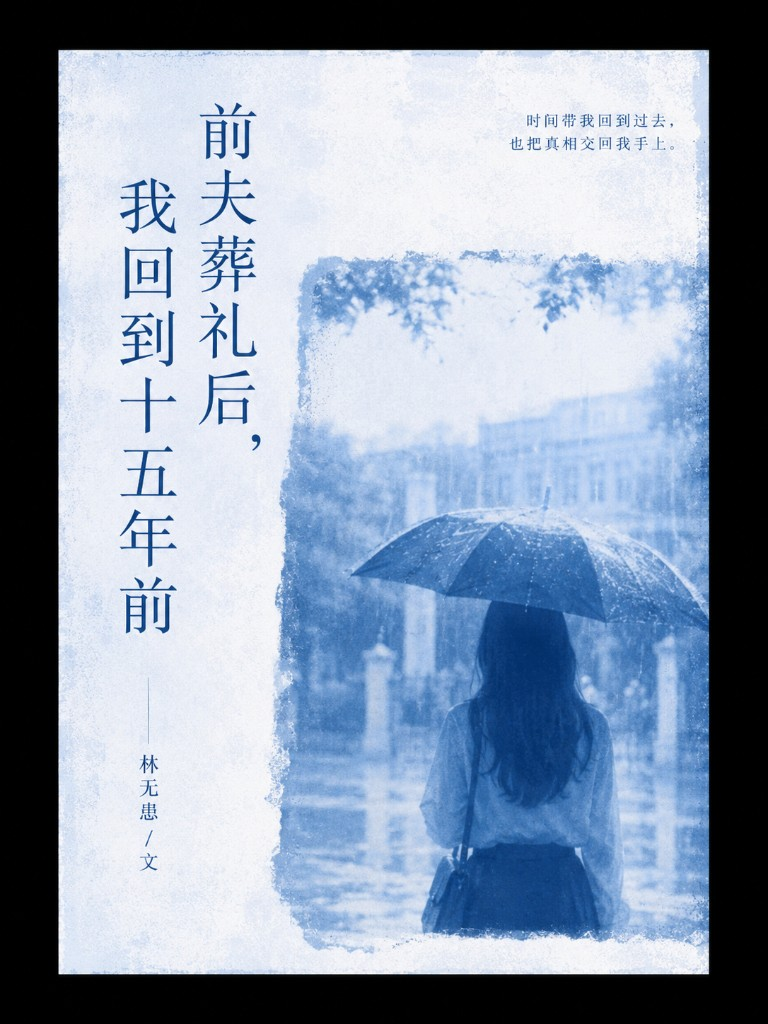
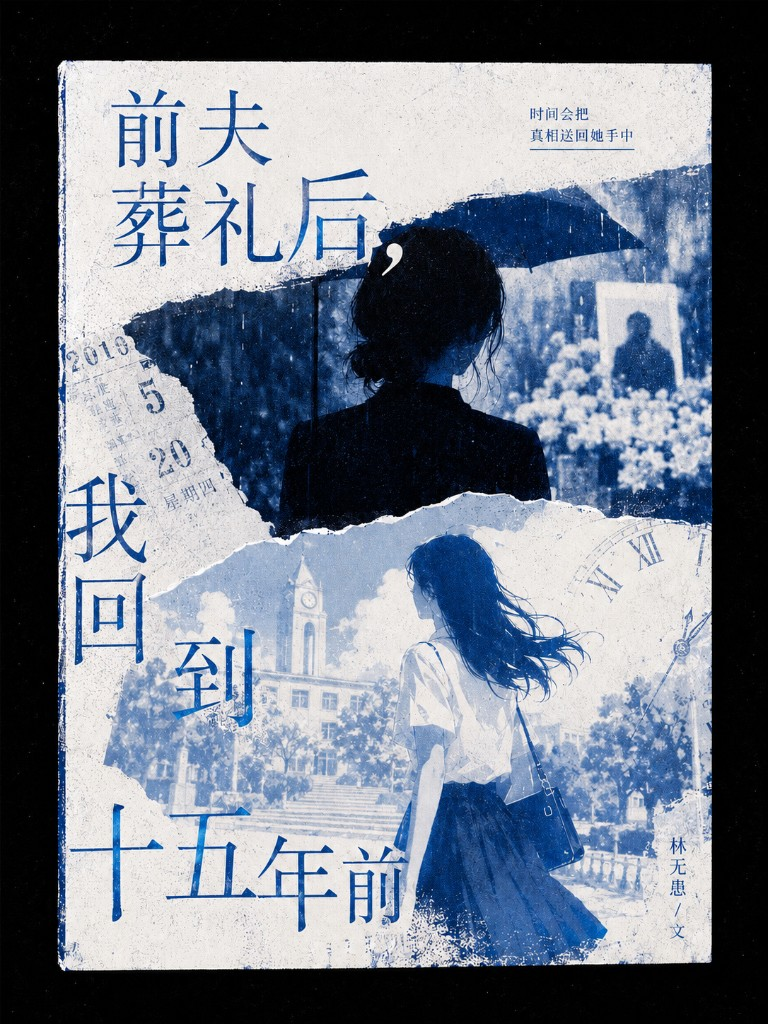
Split 前夫葬礼后 covers: v1 + qianfu-zangli-hou-cover-2.png (revised)

diff --git a/README.md b/README.md
@@ -6,10 +6,12 @@ Static assets for 晋江小说封面等直链资源。
 |------|------|
 | `echoes-in-the-time-rift-cover.png` | **时隙回声** / *Echoes in the Time Rift* |
 | `shi-du-qing-chuan-cover.png` | **时渡晴川** / *Time On the Ferry.* · 林无患 |
-| `qianfu-zangli-hou-cover.png` | **前夫葬礼后，我回到十五年前** · 林无患 |
+| `qianfu-zangli-hou-cover.png` | **前夫葬礼后，我回到十五年前** · 林无患（初版封面） |
+| `qianfu-zangli-hou-cover-2.png` | 同上 · **第二版 / 修订封面** |
 
 GitHub **raw**（公开仓库 `main` 分支）：
 
 - https://raw.githubusercontent.com/amandayuelin/novel-assets/main/echoes-in-the-time-rift-cover.png  
 - https://raw.githubusercontent.com/amandayuelin/novel-assets/main/shi-du-qing-chuan-cover.png  
-- https://raw.githubusercontent.com/amandayuelin/novel-assets/main/qianfu-zangli-hou-cover.png
+- https://raw.githubusercontent.com/amandayuelin/novel-assets/main/qianfu-zangli-hou-cover.png  
+- https://raw.githubusercontent.com/amandayuelin/novel-assets/main/qianfu-zangli-hou-cover-2.png
